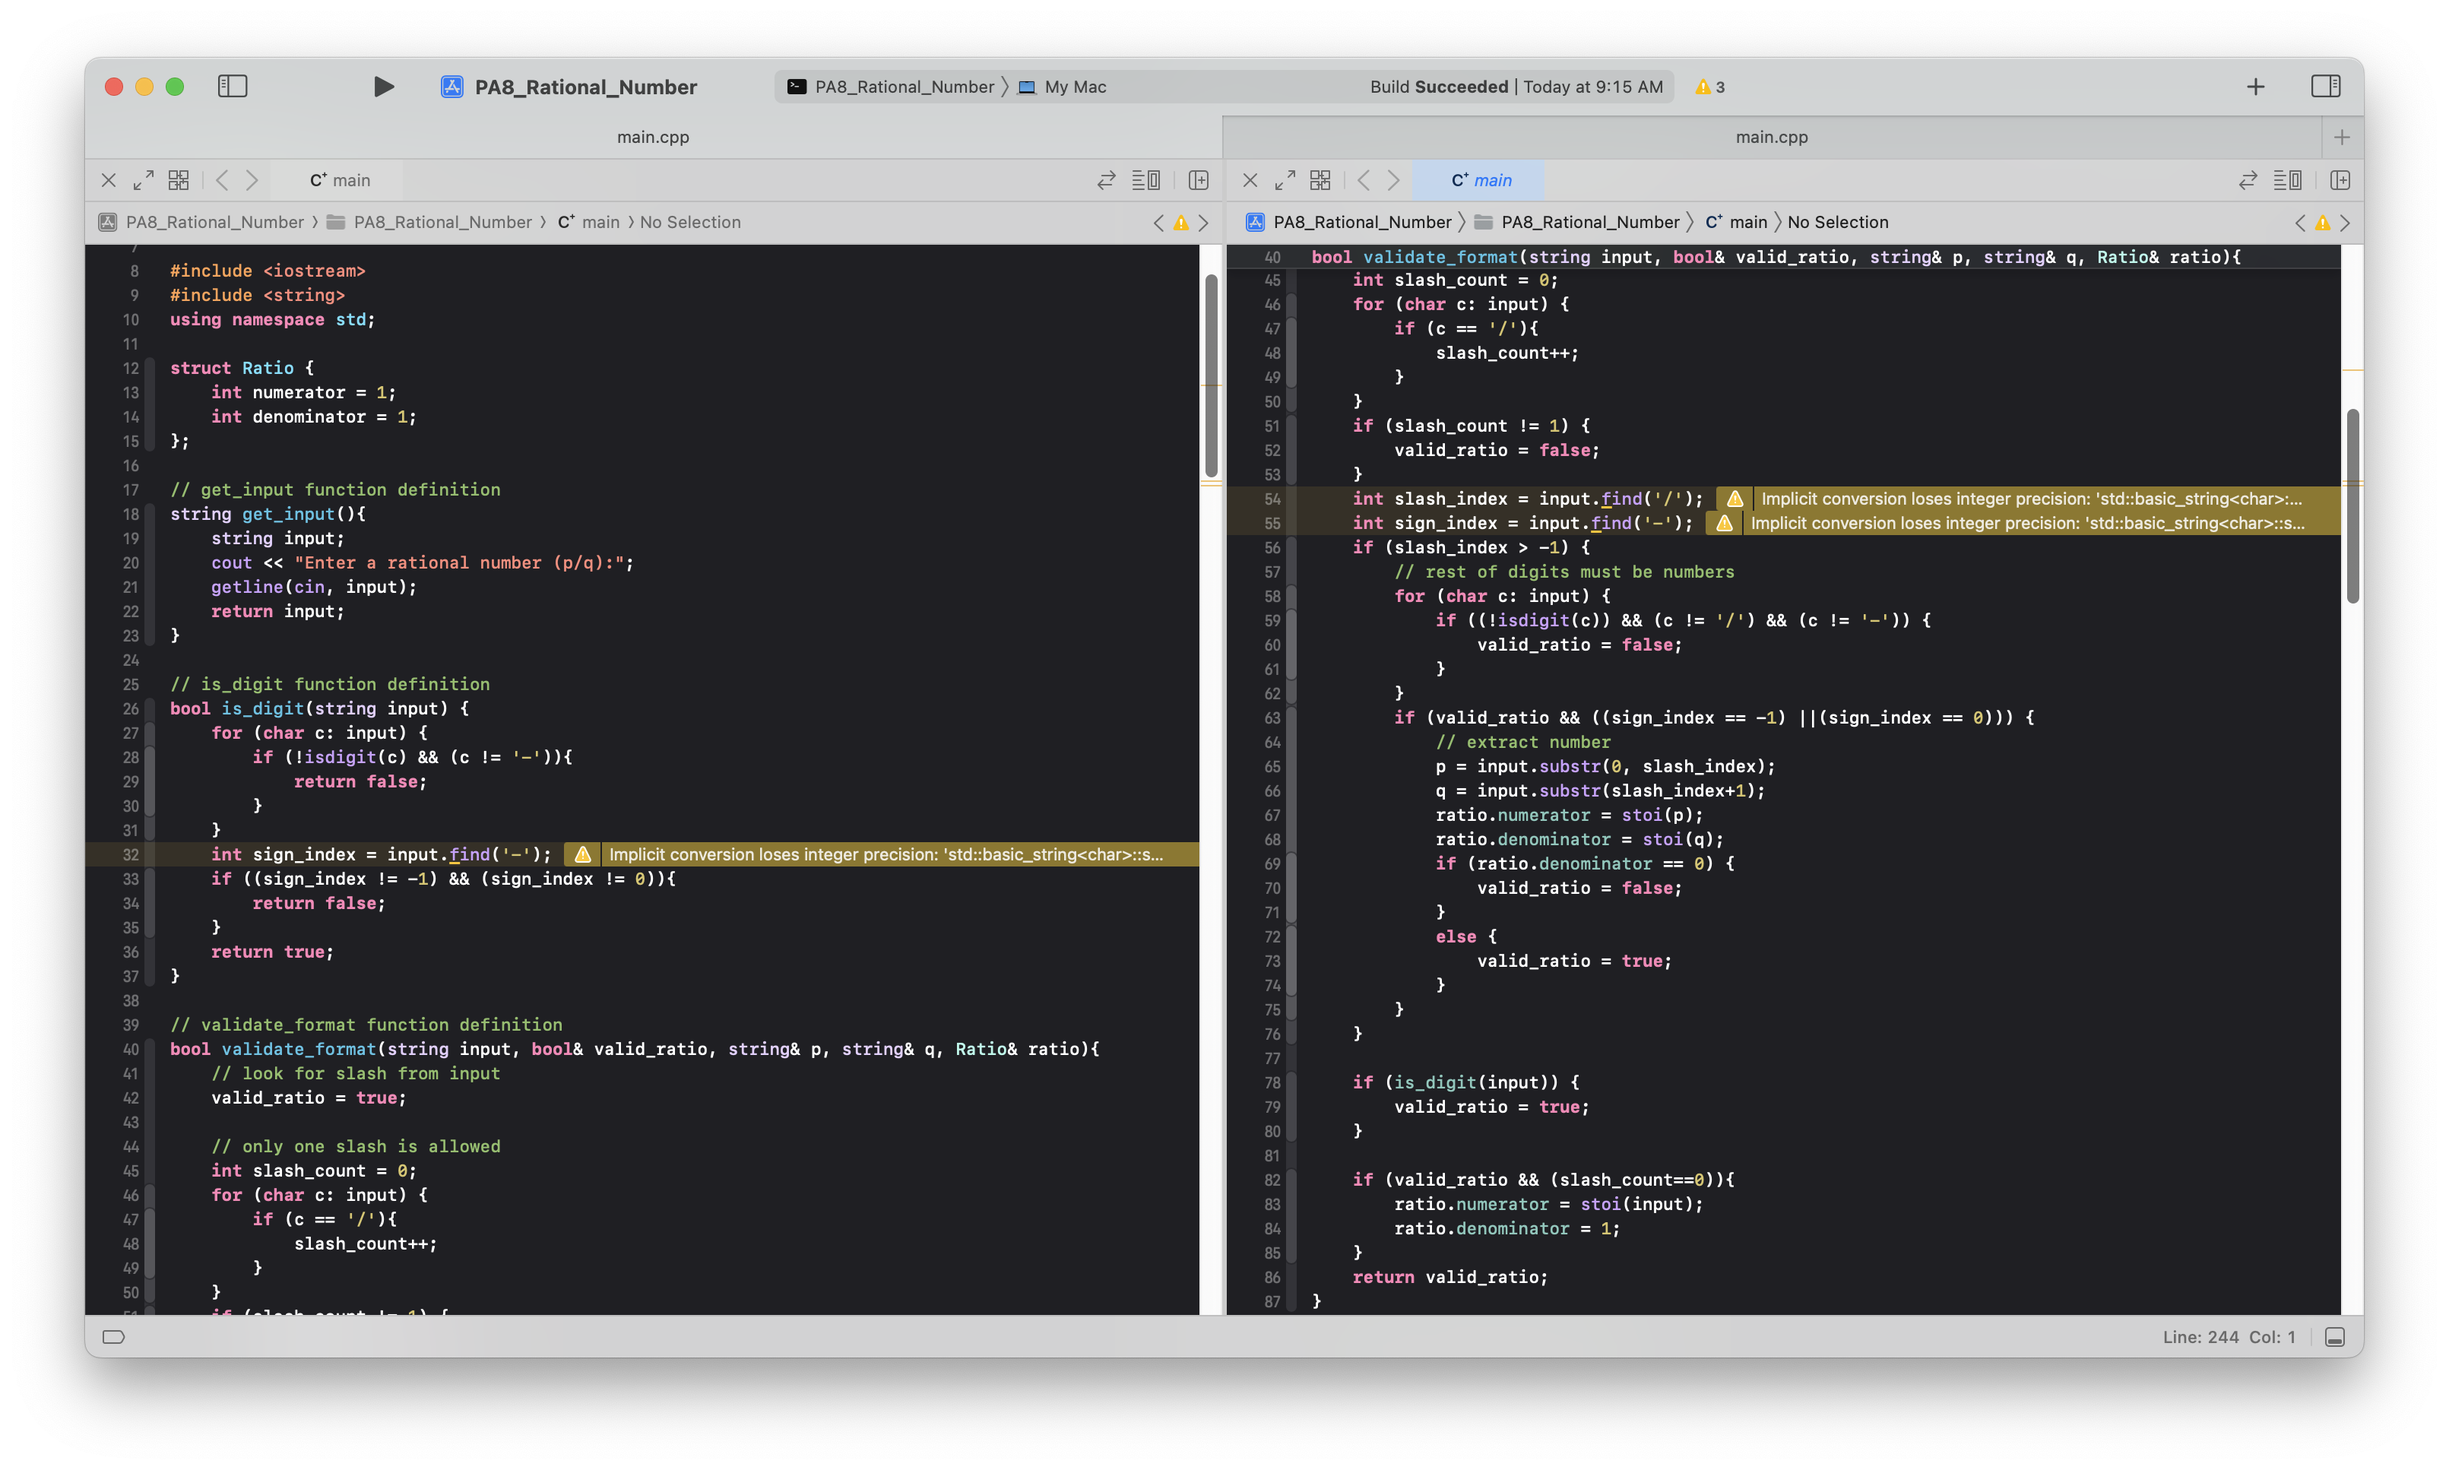
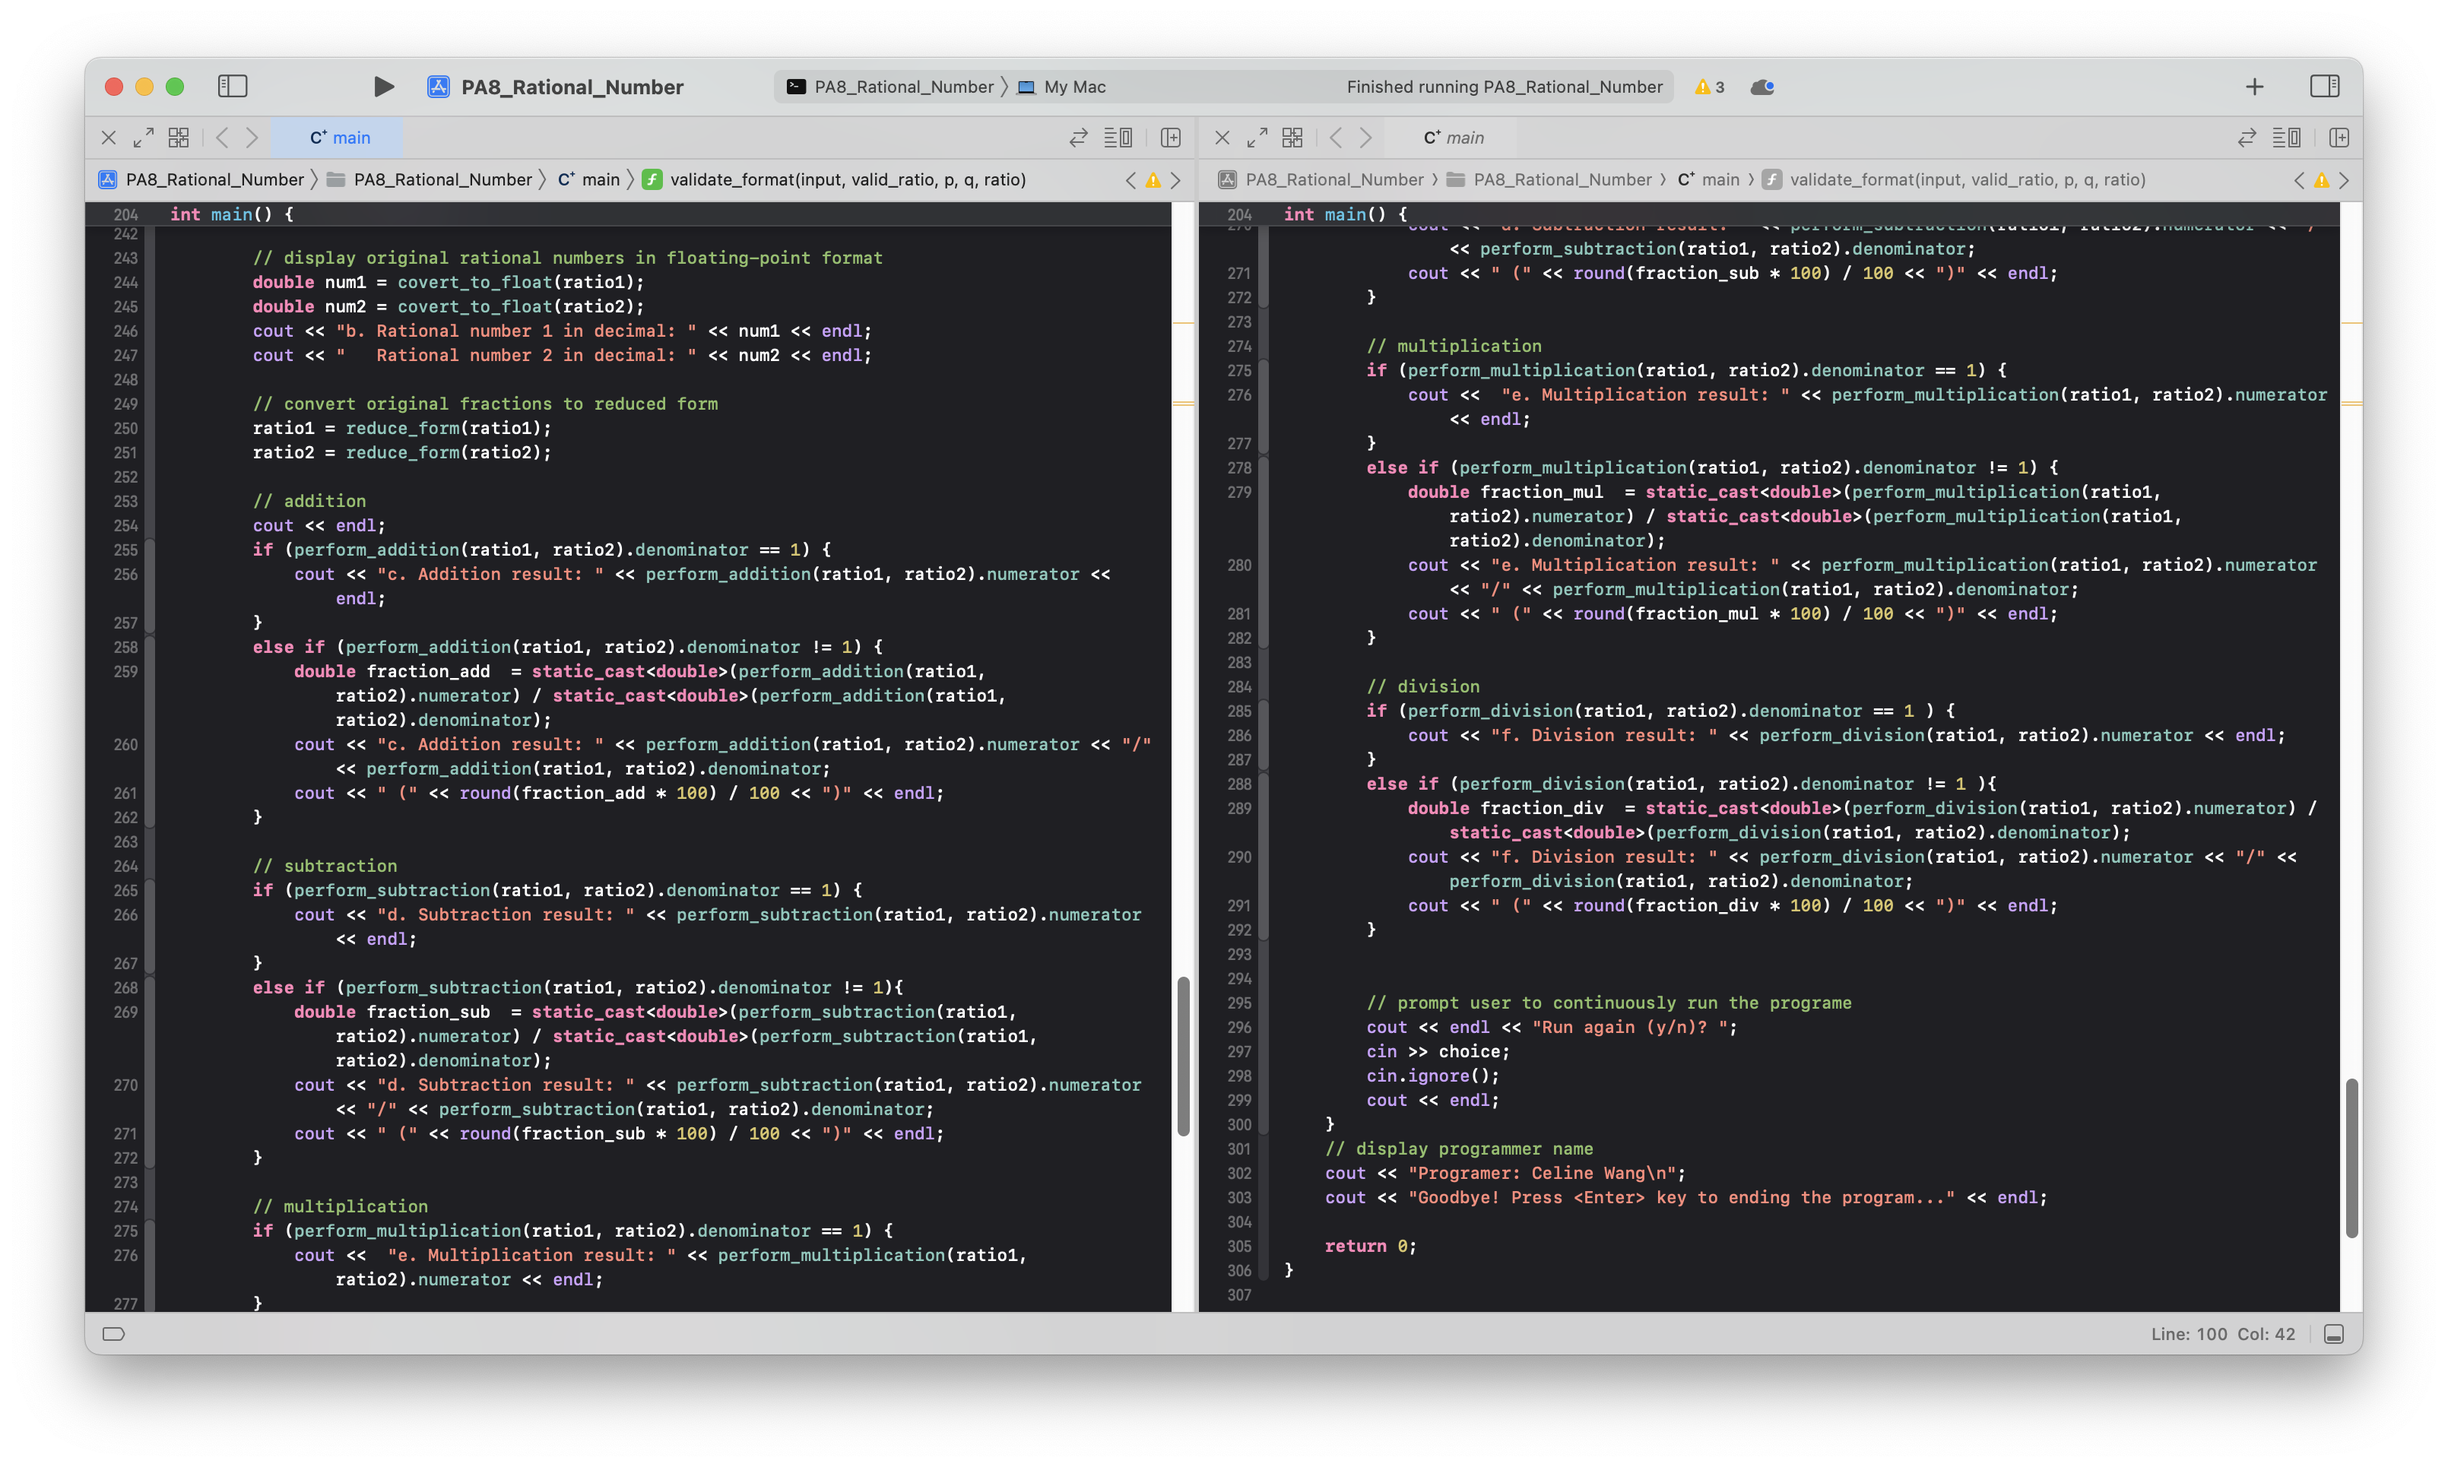
update PA8 rational number

diff --git a/PA8_Rational_Number/PA8_Rational_Number/main.cpp b/PA8_Rational_Number/PA8_Rational_Number/main.cpp
@@ -7,6 +7,7 @@
 
 #include <iostream>
 #include <string>
+#include <iomanip>
 using namespace std;
 
 struct Ratio {
@@ -53,14 +54,30 @@ bool validate_format(string input, bool& valid_ratio, string& p, string& q, Rati
     }
     int slash_index = input.find('/');
     int sign_index = input.find('-');
+    if ((sign_index != -1) && (sign_index != 0) && (sign_index != slash_index + 1)){
+        valid_ratio = false;
+    }
     if (slash_index > -1) {
-        // rest of digits must be numbers
+        // rest of digits must be numbers or minus sign
         for (char c: input) {
             if ((!isdigit(c)) && (c != '/') && (c != '-')) {
                 valid_ratio = false;
             }
         }
-        if (valid_ratio && ((sign_index == -1) ||(sign_index == 0))) {
+        if (valid_ratio && ((sign_index == -1) ||(sign_index == 0))) {  // if numerator contains minus sign
+            // extract number
+            p = input.substr(0, slash_index);
+            q = input.substr(slash_index+1);
+            ratio.numerator = stoi(p);
+            ratio.denominator = stoi(q);
+            if (ratio.denominator == 0) {
+                valid_ratio = false;
+            }
+            else {
+                valid_ratio = true;
+            }
+        }
+        if (valid_ratio && ((sign_index == slash_index + 1) ||(sign_index == 0))) {  // if denominator contains minus sign
             // extract number
             p = input.substr(0, slash_index);
             q = input.substr(slash_index+1);
@@ -75,6 +92,7 @@ bool validate_format(string input, bool& valid_ratio, string& p, string& q, Rati
         }
     }
     
+    // integer numbers is also allowed, default denominator is 1
     if (is_digit(input)) {
         valid_ratio = true;
     }
@@ -97,6 +115,18 @@ int find_gcd(int num1, int num2){
     return gcd;
 }
 
+// reduce_form function definition
+Ratio reduce_form(Ratio ratio){
+    Ratio simplified;
+    simplified.numerator = ratio.numerator / find_gcd(ratio.numerator, ratio.denominator);
+    simplified.denominator = ratio.denominator / find_gcd(ratio.numerator, ratio.denominator);
+    if (simplified.denominator < 0){
+        simplified.numerator = - simplified.numerator;
+        simplified.denominator = - simplified.denominator;
+    }
+    return simplified;
+}
+
 // perform_addition function definition
 Ratio perform_addition(Ratio ratio1, Ratio ratio2) {
     Ratio add;
@@ -106,6 +136,10 @@ Ratio perform_addition(Ratio ratio1, Ratio ratio2) {
     int denominator_add = lcm_add/find_gcd(lcm_add, sum_add);
     add.numerator = numerator_add;
     add.denominator = denominator_add;
+    if (add.denominator < 0) {
+        add.numerator = - add.numerator;
+        add.denominator = - add.denominator;
+    }
     return add;
 }
 
@@ -118,6 +152,10 @@ Ratio perform_subtraction(Ratio ratio1, Ratio ratio2) {
     int denominator_sub = lcm_sub/find_gcd(lcm_sub, diff_sub);
     sub.numerator = numerator_sub;
     sub.denominator = denominator_sub;
+    if (sub.denominator < 0) {
+        sub.numerator = - sub.numerator;
+        sub.denominator = - sub.denominator;
+    }
     return sub;
 }
 
@@ -130,6 +168,10 @@ Ratio perform_multiplication(Ratio ratio1, Ratio ratio2) {
     int denominator_mul = mul_den/find_gcd(mul_den, mul_num);
     mul.numerator = numerator_mul;
     mul.denominator = denominator_mul;
+    if (mul.denominator < 0) {
+        mul.numerator = - mul.numerator;
+        mul.denominator = - mul.denominator;
+    }
     return mul;
 }
 
@@ -146,7 +188,10 @@ Ratio perform_division(Ratio ratio1, Ratio ratio2) {
     int denominator_div = div_den/find_gcd(div_den, div_num);
     div.numerator = numerator_div;
     div.denominator = denominator_div;
-    
+    if (div.denominator < 0) {
+        div.numerator = - div.numerator;
+        div.denominator = - div.denominator;
+    }
     return div;
 }
 
@@ -186,49 +231,67 @@ int main() {
         }
         
         // display results
-        // addition
-        cout << endl;
-        if (perform_addition(ratio1, ratio2).denominator == 1) {
-            cout << "a. Addition result: " << perform_addition(ratio1, ratio2).numerator << endl;
-        }
-        else if (perform_addition(ratio1, ratio2).denominator != 1) {
-            cout << "a. Addition result: " << perform_addition(ratio1, ratio2).numerator << "/" << perform_addition(ratio1, ratio2).denominator << endl;
-        }
-        
-        // subtraction
-        if (perform_subtraction(ratio1, ratio2).denominator == 1) {
-            cout << "b. Subtraction result: " << perform_subtraction(ratio1, ratio2).numerator << endl;
-        }
-        else if (perform_subtraction(ratio1, ratio2).denominator != 1){
-            cout << "b. Subtraction result: " << perform_subtraction(ratio1, ratio2).numerator << "/" << perform_subtraction(ratio1, ratio2).denominator << endl;
-        }
-        
-        // multiplication
-        if (perform_multiplication(ratio1, ratio2).denominator == 1) {
-            cout <<  "c. Multiplication result: " << perform_multiplication(ratio1, ratio2).numerator << endl;
-        }
-        else if (perform_multiplication(ratio1, ratio2).denominator != 1) {
-            cout << "c. Multiplication result: " << perform_multiplication(ratio1, ratio2).numerator << "/" << perform_multiplication(ratio1, ratio2).denominator << endl;
-        }
-        
-        // division
-        if (perform_division(ratio1, ratio2).denominator == 1 ) {
-            cout << "d. Division result: " << perform_division(ratio1, ratio2).numerator << endl;
-        }
-        else if (perform_division(ratio1, ratio2).denominator != 1 ){
-            cout << "d. Division result: " << perform_division(ratio1, ratio2).numerator << "/" << perform_division(ratio1, ratio2).denominator << endl;
-        }
-        
+        cout << fixed << setprecision(2);
         // display original valid rational numbers
-        cout << "e. Rational number 1: " << ratio1.numerator << "/" << ratio1.denominator << endl;
-        cout << "   Rational number 2: " << ratio2.numerator << "/" << ratio2.denominator << endl;
+        cout << endl;
+        cout << "a. Rational number 1: " << ratio1.numerator << "/" << ratio1.denominator;
+        cout << " (" << reduce_form(ratio1).numerator << "/" << reduce_form(ratio1).denominator << ")" << endl;
+        
+        cout << "   Rational number 2: " << ratio2.numerator << "/" << ratio2.denominator;
+        cout << " (" << reduce_form(ratio2).numerator << "/" << reduce_form(ratio2).denominator << ")" << endl;
         
         // display original rational numbers in floating-point format
         double num1 = covert_to_float(ratio1);
         double num2 = covert_to_float(ratio2);
-        cout << "f. Rational number 1 in decimal: " << num1 << endl;
+        cout << "b. Rational number 1 in decimal: " << num1 << endl;
         cout << "   Rational number 2 in decimal: " << num2 << endl;
         
+        // convert original fractions to reduced form
+        ratio1 = reduce_form(ratio1);
+        ratio2 = reduce_form(ratio2);
+        
+        // addition
+        cout << endl;
+        if (perform_addition(ratio1, ratio2).denominator == 1) {
+            cout << "c. Addition result: " << perform_addition(ratio1, ratio2).numerator << endl;
+        }
+        else if (perform_addition(ratio1, ratio2).denominator != 1) {
+            double fraction_add  = static_cast<double>(perform_addition(ratio1, ratio2).numerator) / static_cast<double>(perform_addition(ratio1, ratio2).denominator);
+            cout << "c. Addition result: " << perform_addition(ratio1, ratio2).numerator << "/" << perform_addition(ratio1, ratio2).denominator;
+            cout << " (" << round(fraction_add * 100) / 100 << ")" << endl;
+        }
+        
+        // subtraction
+        if (perform_subtraction(ratio1, ratio2).denominator == 1) {
+            cout << "d. Subtraction result: " << perform_subtraction(ratio1, ratio2).numerator << endl;
+        }
+        else if (perform_subtraction(ratio1, ratio2).denominator != 1){
+            double fraction_sub  = static_cast<double>(perform_subtraction(ratio1, ratio2).numerator) / static_cast<double>(perform_subtraction(ratio1, ratio2).denominator);
+            cout << "d. Subtraction result: " << perform_subtraction(ratio1, ratio2).numerator << "/" << perform_subtraction(ratio1, ratio2).denominator;
+            cout << " (" << round(fraction_sub * 100) / 100 << ")" << endl;
+        }
+        
+        // multiplication
+        if (perform_multiplication(ratio1, ratio2).denominator == 1) {
+            cout <<  "e. Multiplication result: " << perform_multiplication(ratio1, ratio2).numerator << endl;
+        }
+        else if (perform_multiplication(ratio1, ratio2).denominator != 1) {
+            double fraction_mul  = static_cast<double>(perform_multiplication(ratio1, ratio2).numerator) / static_cast<double>(perform_multiplication(ratio1, ratio2).denominator);
+            cout << "e. Multiplication result: " << perform_multiplication(ratio1, ratio2).numerator << "/" << perform_multiplication(ratio1, ratio2).denominator;
+            cout << " (" << round(fraction_mul * 100) / 100 << ")" << endl;
+        }
+        
+        // division
+        if (perform_division(ratio1, ratio2).denominator == 1 ) {
+            cout << "f. Division result: " << perform_division(ratio1, ratio2).numerator << endl;
+        }
+        else if (perform_division(ratio1, ratio2).denominator != 1 ){
+            double fraction_div  = static_cast<double>(perform_division(ratio1, ratio2).numerator) / static_cast<double>(perform_division(ratio1, ratio2).denominator);
+            cout << "f. Division result: " << perform_division(ratio1, ratio2).numerator << "/" << perform_division(ratio1, ratio2).denominator;
+            cout << " (" << round(fraction_div * 100) / 100 << ")" << endl;
+        }
+        
+
         // prompt user to continuously run the programe
         cout << endl << "Run again (y/n)? ";
         cin >> choice;
